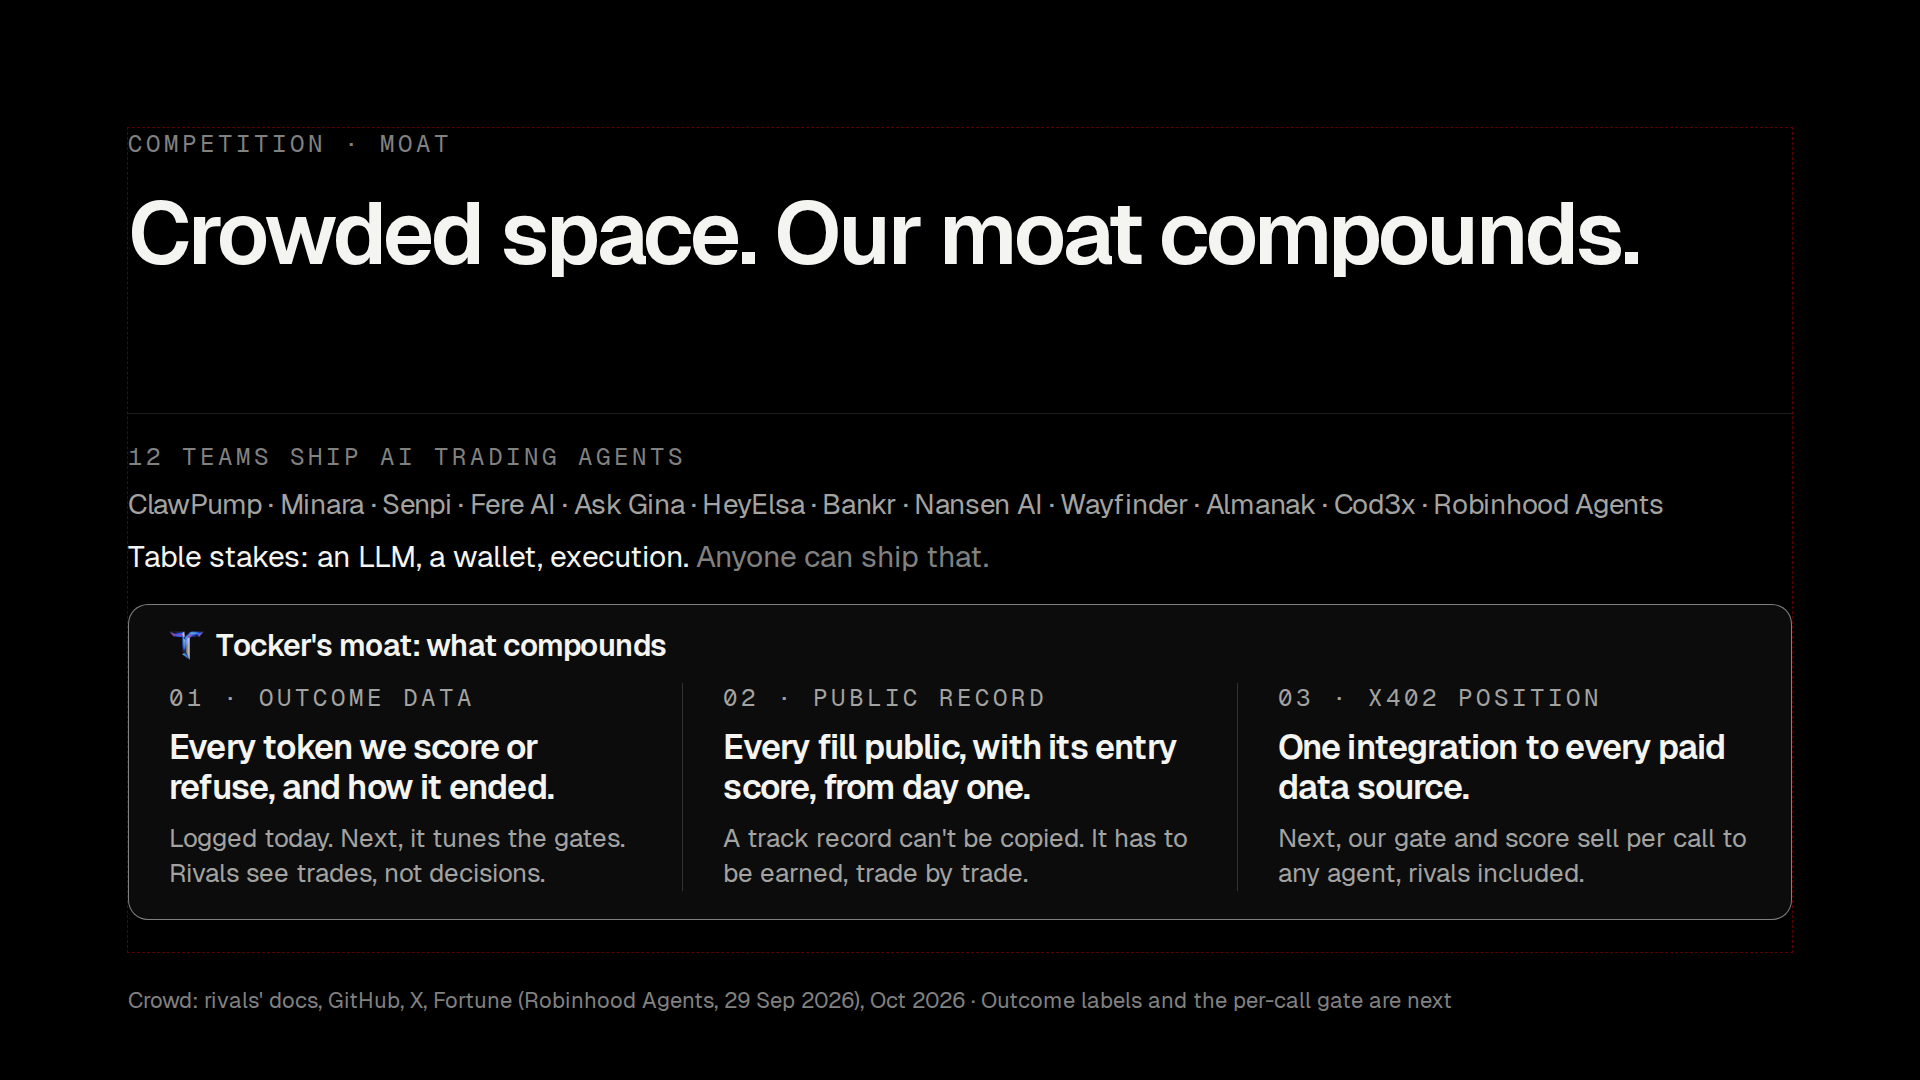
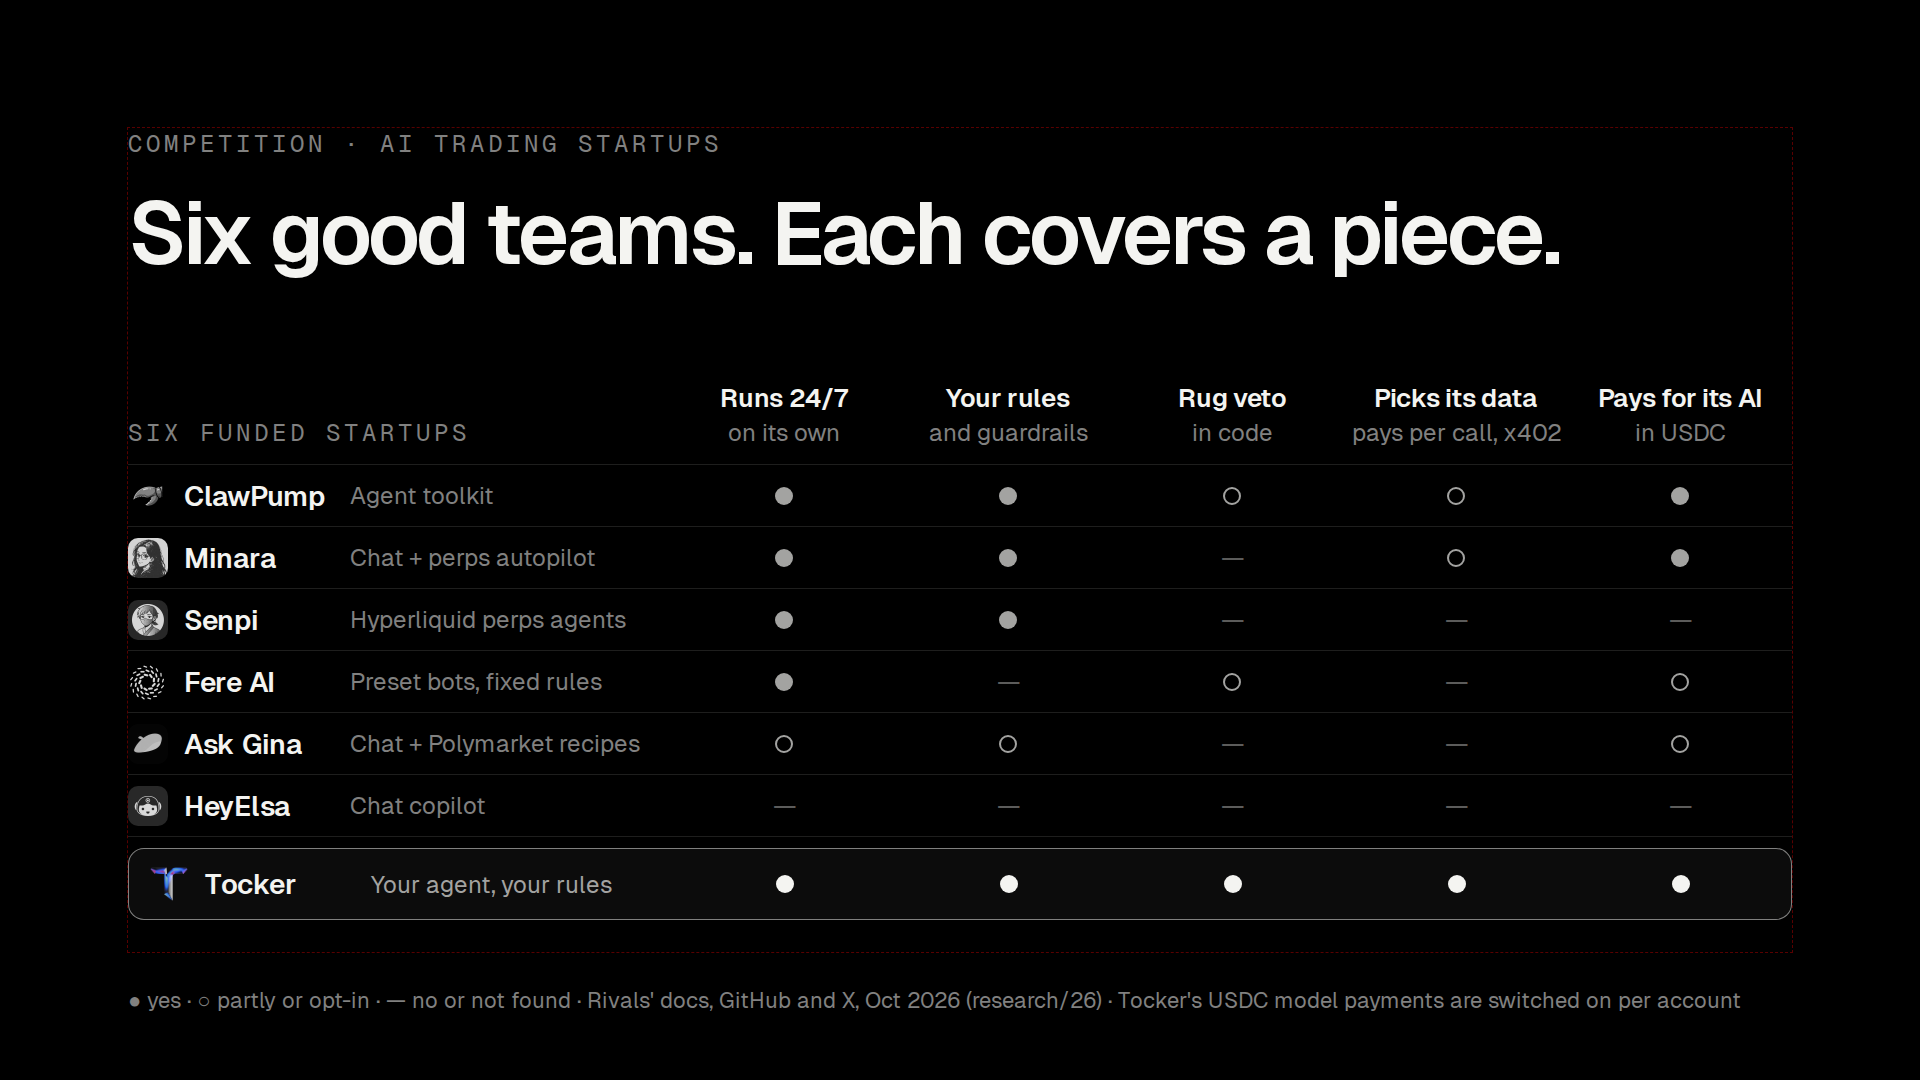
docs(pitch): competition as a capability matrix — six startups vs Tocker on five capabilities
Claude-Session: https://claude.ai/code/session_01C63X7bmiYFRUvieQLSha7b

diff --git a/docs/pitch/deck/build_competition.py b/docs/pitch/deck/build_competition.py
@@ -1,64 +1,82 @@
-"""Competition + moat slide (Slides subset: flow layout, text >= 24px, footer pinned).
-Run: python3 -I moat.py <out.html>
-Facts: research/26, 29 (crowd), 30 (what the code logs today: token_score_history; outcome labels are next)."""
+"""Competition matrix: six AI trading startups vs Tocker on five capabilities (Slides subset).
+Cells from docs/pitch/research/26-competitors-deep (README matrix + per-company §7 Autonomy), Oct 2026.
+Marks: Y = yes, P = partly / opt-in, N = no or not found. Run: python3 -I matrix.py <out.html>"""
 import html, re, sys
 
 OUT = sys.argv[1]
 MONO = "font-family:'Geist Mono', 'Courier New', monospace"
 SANS = "font-family:Geist, Arial, sans-serif"
 FG, MID, DIM, HAIR = "#f4f4f1", "#a3a3a1", "#818180", "#f4f4f11f"
-LOGO = "/_blob/41da4bfef67a2f6a83cfa7cf3015ecf2"
 e = lambda t: html.escape(t, quote=False)
 
-CROWD = ["ClawPump", "Minara", "Senpi", "Fere AI", "Ask Gina", "HeyElsa",
-         "Bankr", "Nansen AI", "Wayfinder", "Almanak", "Cod3x", "Robinhood Agents"]
-MOAT = [
-    ("01 · Outcome data", "Every token we score or refuse, and how it ended.",
-     "Logged today. Next, it tunes the gates. Rivals see trades, not decisions."),
-    ("02 · Public record", "Every fill public, with its entry score, from day one.",
-     "A track record can't be copied. It has to be earned, trade by trade."),
-    ("03 · x402 position", "One integration to every paid data source.",
-     "Next, our gate and score sell per call to any agent, rivals included."),
+COLS = [("Runs 24/7", "on its own"), ("Your rules", "and guardrails"), ("Rug veto", "in code"),
+        ("Picks its data", "pays per call, x402"), ("Pays for its AI", "in USDC")]
+ROWS = [
+    ("ClawPump", "/_blob/0bc2d38756d41a19b0f4b42cae97ee97", "Agent toolkit", "YYPPY", ""),
+    ("Minara", "/_blob/03acbe489e6ea92d8d145a181c9dfa84", "Chat + perps autopilot", "YYNPY", ""),
+    ("Senpi", "/_blob/ca68c6e24dedbf9baa8b126a87b00a6b", "Hyperliquid perps agents", "YYNNN", ""),
+    ("Fere AI", "/_blob/3f187fc91f8eb98029cad57c307f6fec", "Preset bots, fixed rules", "YNPNP", ""),
+    ("Ask Gina", "/_blob/dea59d96bd66d04b62a83f5f399fbaa9", "Chat + Polymarket recipes", "PPNNP", "invert"),
+    ("HeyElsa", "/_blob/392c3ee86a193e8a1796ae2fe53d5a5b", "Chat copilot", "NNNNN", ""),
 ]
-LOOP = ["More agents", "more outcomes", "safer gates", "a better public record", "more agents"]
-NOTE = ("This space is crowded: twelve teams ship AI trading agents, Robinhood included. An LLM, a wallet and execution "
-        "are table stakes, and features get copied. Our moat is what compounds. Outcome data: every token our agents "
-        "score or refuse, and what happened next, which tunes our gates. A public record that can only be earned over "
-        "time. And x402: one integration to every data source, and next, our safety check sold to other agents.")
-FOOT = "Crowd: rivals' docs, GitHub, X, Fortune (Robinhood Agents, 29 Sep 2026), Oct 2026 · Outcome labels and the per-call gate are next"
+TOCKER = ("Tocker", "/_blob/41da4bfef67a2f6a83cfa7cf3015ecf2", "Your agent, your rules", "YYYYY")
+NAME_W, COL_W, ROW_H = 544, 224, 62
+NOTE = ("It's a crowded space, and these are good teams, but each covers a piece. HeyElsa and Ask Gina are mostly chat "
+        "with execution. Fere runs preset bots you can't configure. Senpi and Minara run perps strategies on bundled data, "
+        "with no rug veto. Tocker does all five: it runs on its own 24/7, under your rules and guardrails, vetoes rugs in "
+        "code, picks and pays for its data over x402, and pays for its own model in USDC.")
+FOOT = "● yes · ○ partly or opt-in · — no or not found · Rivals' docs, GitHub and X, Oct 2026 (research/26) · Tocker's USDC model payments are switched on per account"
+
+
+def mark(m, strong=False):
+    if m == "Y":
+        c = FG if strong else MID
+        return f'<div style="width:18px; height:18px; display:flex; flex-direction:column; background:{c}; border-radius:256px"></div>'
+    if m == "P":
+        return f'<div style="width:18px; height:18px; display:flex; flex-direction:column; border:2px solid {MID}; border-radius:256px"></div>'
+    return f'<p style="{SANS}; font-size:26px; line-height:1; color:#5c5c5b">—</p>'
+
+
+def row(name, logo, what, marks, opt="", tocker=False):
+    filt = "" if tocker else ("; filter:grayscale(1) invert(1); opacity:0.85" if opt == "invert" else "; filter:grayscale(1); opacity:0.85")
+    fit = "contain" if tocker else "cover"
+    name_c = FG
+    what_c = MID if tocker else DIM
+    cells = "".join(
+        f'<div style="width:{COL_W}px; display:flex; flex-direction:row; justify-content:center; align-items:center; flex:0 0 auto">{mark(m, tocker)}</div>'
+        for m in marks)
+    style = (f"height:{ROW_H + 10 if tocker else ROW_H}px; display:flex; flex-direction:row; align-items:center; "
+             + (f"background:#f4f4f10d; border:1px solid #f4f4f180; border-radius:16px" if tocker else f"border-top:1px solid {HAIR}"))
+    pad = "padding:0 0 0 20px; " if tocker else ""
+    return (f'    <div style="{style}">\n'
+            f'      <div style="width:{NAME_W}px; {pad}display:flex; flex-direction:row; gap:16px; align-items:center; flex:0 0 auto">\n'
+            f'        <img src="{logo}" alt="{e(name)} logo" style="width:40px; height:40px; border-radius:10px; object-fit:{fit}{filt}">\n'
+            f'        <p style="width:150px; {SANS}; font-size:28px; font-weight:600; letter-spacing:-0.3px; white-space:nowrap; color:{name_c}">{e(name)}</p>\n'
+            f'        <p style="{SANS}; font-size:24px; white-space:nowrap; color:{what_c}">{e(what)}</p>\n'
+            f'      </div>\n      {cells}\n    </div>\n')
 
 
 def build():
-    names = " · ".join(n.replace(" ", " ") for n in CROWD)
-    crowd = (f'  <div style="display:flex; flex-direction:column; gap:14px; padding:28px 0 0; border-top:1px solid {HAIR}">\n'
-             f'    <p style="{MONO}; font-size:24px; line-height:30px; letter-spacing:4px; text-transform:uppercase; color:{DIM}">12 teams ship AI trading agents</p>\n'
-             f'    <p style="width:1664px; {SANS}; font-size:28px; line-height:1.3; letter-spacing:-0.3px; white-space:nowrap; color:{MID}">{e(names)}</p>\n'
-             f'    <p style="{SANS}; font-size:30px; line-height:1.3; color:{FG}">Table stakes: an LLM, a wallet, execution. <span style="color:{DIM}">Anyone can ship that.</span></p>\n'
-             f'  </div>\n')
-    cols = ""
-    for i, (label, lead, sub) in enumerate(MOAT):
-        sep = f"; border-left:1px solid #f4f4f129; padding-left:40px" if i else ""
-        cols += (f'      <div style="display:flex; flex-direction:column; gap:14px; flex:1{sep}">\n'
-                 f'        <p style="{MONO}; font-size:24px; line-height:30px; letter-spacing:4px; text-transform:uppercase; white-space:nowrap; color:{MID}">{e(label)}</p>\n'
-                 f'        <p style="{SANS}; font-size:34px; font-weight:600; line-height:1.18; letter-spacing:-0.8px; color:{FG}">{e(lead)}</p>\n'
-                 f'        <p style="{SANS}; font-size:26px; line-height:1.35; color:{MID}">{e(sub)}</p>\n'
-                 f'      </div>\n')
-    loop = f' <span style="color:{DIM}">→</span> '.join(e(x) for x in LOOP)
-    box = (f'  <div style="display:flex; flex-direction:column; gap:22px; padding:26px 40px 28px; background:#f4f4f10d; border:1px solid #f4f4f180; border-radius:20px">\n'
-           f'    <div style="display:flex; flex-direction:row; gap:12px; align-items:center">\n'
-           f'      <img src="{LOGO}" alt="Tocker T mark" style="width:35px; height:29px; object-fit:contain">\n'
-           f'      <p style="{SANS}; font-size:30px; font-weight:600; line-height:1; letter-spacing:-0.5px; color:{FG}">Tocker\'s moat: what compounds</p>\n'
-           f'    </div>\n'
-           f'    <div style="display:flex; flex-direction:row; gap:40px">\n{cols}    </div>\n'
-                      f'  </div>\n')
+    head = "".join(
+        f'<div style="width:{COL_W}px; display:flex; flex-direction:column; align-items:center; gap:2px; flex:0 0 auto">'
+        f'<p style="{SANS}; font-size:26px; font-weight:600; letter-spacing:-0.3px; white-space:nowrap; color:{FG}">{e(a)}</p>'
+        f'<p style="{SANS}; font-size:24px; white-space:nowrap; color:{DIM}">{e(b)}</p></div>'
+        for a, b in COLS)
+    rows = "".join(row(*r) for r in ROWS)
+    body = (f'  <div style="display:flex; flex-direction:column">\n'
+            f'    <div style="display:flex; flex-direction:row; align-items:end; padding:0 0 16px">\n'
+            f'      <div style="width:{NAME_W}px; flex:0 0 auto"><p style="{MONO}; font-size:24px; letter-spacing:4px; text-transform:uppercase; color:{DIM}">Six funded startups</p></div>\n'
+            f'      {head}\n    </div>\n{rows}'
+            f'    <div style="height:12px; border-top:1px solid {HAIR}"></div>\n'
+            f'{row(*TOCKER, tocker=True)}  </div>\n')
     s = (f'<section id="competition" data-transition="fade" style="display:flex; flex-direction:column; gap:28px; padding:128px 128px 160px; background:#000000">\n'
-         f'  <p style="{MONO}; font-size:24px; letter-spacing:4px; text-transform:uppercase; color:{DIM}">Competition · Moat</p>\n'
-         f'  <h2 style="width:1664px; {SANS}; font-size:88px; font-weight:600; line-height:1.05; letter-spacing:-3px; color:{FG}">Crowded space. Our moat compounds.</h2>\n'
-         f'  <div style="flex:1"></div>\n{crowd}{box}'
+         f'  <p style="{MONO}; font-size:24px; letter-spacing:4px; text-transform:uppercase; color:{DIM}">Competition · AI trading startups</p>\n'
+         f'  <h2 style="width:1664px; {SANS}; font-size:88px; font-weight:600; line-height:1.05; letter-spacing:-3px; color:{FG}">Six good teams. Each covers a piece.</h2>\n'
+         f'  <div style="flex:1"></div>\n{body}'
          f'  <p style="position:absolute; bottom:64px; left:128px; width:1664px; {SANS}; font-size:22px; line-height:1.35; white-space:nowrap; color:{DIM}">{e(FOOT)}</p>\n'
          f'  <aside>{e(NOTE)}</aside>\n</section>\n')
     open(OUT, "w").write(s)
-    print("note words", len(NOTE.split()), "| <24:", [x for x in re.findall(r"font-size:(\d+)px", s) if int(x) < 22])
+    print("note words", len(NOTE.split()))
 
 
 build()

diff --git a/docs/pitch/pitch-3min.md b/docs/pitch/pitch-3min.md
@@ -3,7 +3,7 @@
 ~416 words over 10 slides, about 2:35 at 160 wpm. Reworked on Oct 8, 2026 after a pitch roast that pushed on three things: "what's the edge?", "the competitors are well established", and "performance". [pause] marks a beat.
 - **Edge** (new slide, replaces the x402 "alpha" slide): not prediction but not losing, in three steps. Refuse the rugs (gates in code), pick by your thesis (paid data, cents a token), exit by rule. Evidence: research/29, code: research/30.
 - **Proof** slide dropped (Oct 9): the gate audit and house cohort stay in Q&A 20 as the plan, not on a slide.
-- **Competition · Moat** (Oct 9): "Crowded space. Our moat compounds." 12 teams ship AI trading agents (named); table stakes are an LLM, a wallet and execution. Moat, in what compounds: (1) outcome data, every token we score or refuse and how it ended, logged today (`token_score_history`), tuning the gates next; (2) a public record of every fill with its entry score; (3) x402 position, one integration to every paid data source, and next our gate and score sold per call to any agent. Outcome labels and the per-call gate are not built: say "next".
+- **Competition** (Oct 9): a capability matrix, "Six good teams. Each covers a piece." Six AI startups vs Tocker on runs 24/7 on its own, your rules and guardrails, rug veto in code, picks and pays for its data (x402), pays for its AI in USDC. Cells from research/26 §7 Autonomy and the README matrix. Don't say rivals aren't 24/7: ClawPump, Minara (autopilot), Senpi and Fere all run 24/7. The moat answer is Q&A 22.
 - **Stale facts fixed:** the 0.5% fee is live (main #53), the beta is open, and the solution slide no longer says "sell-check data" (Solana has no sell test).
 Earlier competition designs: docs/pitch/deck/competition-angles/.
 
@@ -26,7 +26,7 @@ So what's the edge? Not prediction: nobody has shown an AI that picks memecoin w
 Who pays? Traders already do: nine hundred forty million dollars last year to Solana bots and terminals, at one percent a trade. We charge half, and it's live.
 
 ## competition
-This space is crowded: twelve teams ship AI trading agents, Robinhood included. An LLM, a wallet and execution are table stakes, and features get copied. Our moat is what compounds. Outcome data: every token our agents score or refuse, and what happened next, which tunes our gates. A public record that can only be earned over time. And x402: one integration to every data source, and next, our safety check sold to other agents.
+It's a crowded space, and these are good teams, but each covers a piece. HeyElsa and Ask Gina are mostly chat with execution. Fere runs preset bots you can't configure. Senpi and Minara run perps strategies on bundled data, with no rug veto. Tocker does all five: it runs on its own 24/7, under your rules and guardrails, vetoes rugs in code, picks and pays for its data over x402, and pays for its own model in USDC.
 
 ## gtm
 That public record is the growth loop: every trade posts with its score and markets itself, and followers launch their own. We start with Solana memecoins, four hundred eighty-two billion dollars last year, then Polymarket and tokenized stocks.
